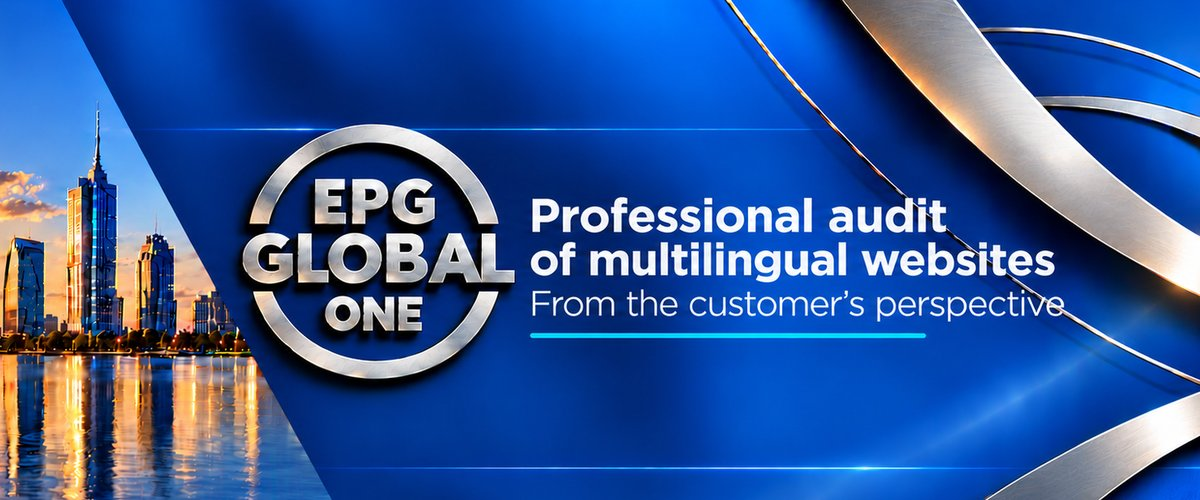
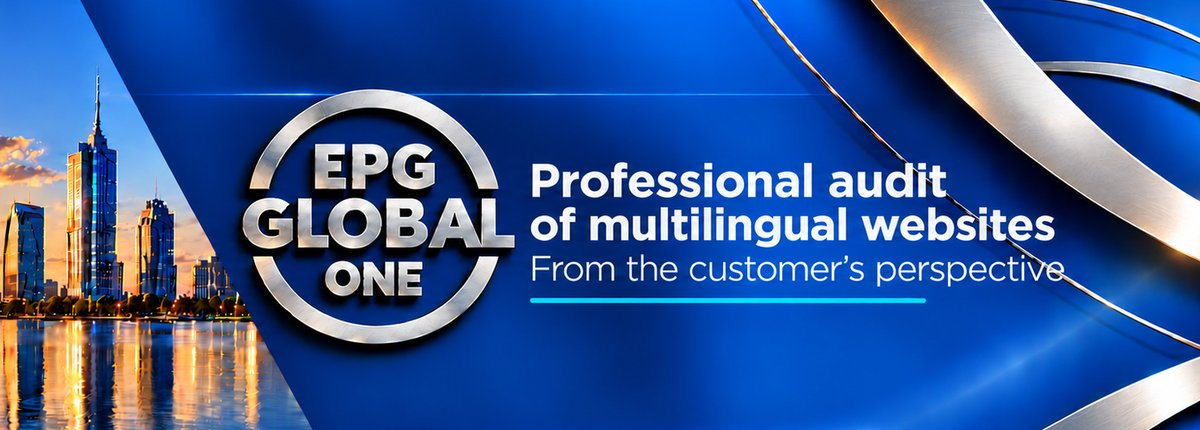
Add files via upload

diff --git a/src/content/ru/home.html b/src/content/ru/home.html
@@ -1,5 +1,5 @@
 <div class="wrap">
-<div class="top-banner"><picture><source media="(max-width:620px)" srcset="/images/banner/banner-ru-m.jpg" width="1200" height="500"/><img src="/images/banner/banner-ru.jpg" alt="EPG Global ONE — Профессиональная проверка многоязычных сайтов глазами клиента" width="2000" height="400" fetchpriority="high"/></picture></div>
+<div class="top-banner"><picture><source media="(max-width:620px)" srcset="/images/banner/banner-ru-m.jpg" width="1200" height="430"/><img src="/images/banner/banner-ru.jpg" alt="EPG Global ONE — Профессиональная проверка многоязычных сайтов глазами клиента" width="2000" height="400" fetchpriority="high"/></picture></div>
 <header class="top">
 <a class="brand" href="#">EPG Global ONE<small>Expert Perception Group</small></a>
 <p class="q q-below">Вы бы доверили своё здоровье врачу, а деньги финансисту, если бы текст на двери его кабинета был написан с ошибками?</p>

diff --git a/src/content/es/home.html b/src/content/es/home.html
@@ -1,5 +1,5 @@
 <div class="wrap">
-<div class="top-banner"><picture><source media="(max-width:620px)" srcset="/images/banner/banner-es-m.jpg" width="1200" height="500"/><img src="/images/banner/banner-es.jpg" alt="EPG Global ONE — Auditoría profesional de sitios web multilingües desde la perspectiva del cliente" width="2000" height="400" fetchpriority="high"/></picture></div>
+<div class="top-banner"><picture><source media="(max-width:620px)" srcset="/images/banner/banner-es-m.jpg" width="1200" height="430"/><img src="/images/banner/banner-es.jpg" alt="EPG Global ONE — Auditoría profesional de sitios web multilingües desde la perspectiva del cliente" width="2000" height="400" fetchpriority="high"/></picture></div>
 <header class="top">
 <a class="brand" href="#">EPG Global ONE<small>Expert Perception Group</small></a>
 <p class="q q-below">¿Confiaría su salud a un médico y su dinero a un asesor financiero si el texto en la puerta de la oficina tuviera errores?</p>

diff --git a/src/content/en/home.html b/src/content/en/home.html
@@ -1,5 +1,5 @@
 <div class="wrap">
-<div class="top-banner"><picture><source media="(max-width:620px)" srcset="/images/banner/banner-en-m.jpg" width="1200" height="500"/><img src="/images/banner/banner-en.jpg" alt="EPG Global ONE — Professional audit of multilingual websites from the customer's perspective" width="2000" height="400" fetchpriority="high"/></picture></div>
+<div class="top-banner"><picture><source media="(max-width:620px)" srcset="/images/banner/banner-en-m.jpg" width="1200" height="430"/><img src="/images/banner/banner-en.jpg" alt="EPG Global ONE — Professional audit of multilingual websites from the customer's perspective" width="2000" height="400" fetchpriority="high"/></picture></div>
 <header class="top">
 <a class="brand" href="#">EPG Global ONE<small>Expert Perception Group</small></a>
 <p class="q q-below">Would you trust your health to a doctor and your money to a financial advisor if the text on the office door had mistakes?</p>
